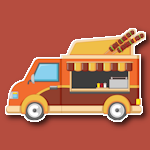
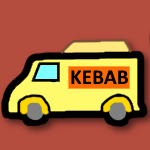
Replaced temporary art with cooler, hand-drawn art.

diff --git a/headless/src/test/java/com/spacecomplexity/longboilife/headless/SatisfactionTests.java b/headless/src/test/java/com/spacecomplexity/longboilife/headless/SatisfactionTests.java
@@ -156,14 +156,15 @@ public class SatisfactionTests extends AbstractHeadlessGdxTest{
          *                     = 0.8377
          */
         empty_world.build(BuildingType.HALLS, new Vector2Int(0, 0));
-        empty_world.build(BuildingType.NANDOS, new Vector2Int(3,1));
+        empty_world.build(BuildingType.CHICKENSHOP, new Vector2Int(3,1));
         empty_world.build(BuildingType.LECTURETHEATRE, new Vector2Int(6,1));
         empty_world.build(BuildingType.FOOTBALLFIELD, new Vector2Int(9,1));
         for (int i = 3; i < 11; i++) {
             empty_world.build(BuildingType.ROAD, new Vector2Int(i, 0));
         }
         satisfactionSum = GameUtils.updateSatisfactionScore(empty_world);
-        assertClose(0.838f, gameState.targetSatisfaction, 0.001f, "Building too far from accommodation -> No satisfaction");
+        assertClose(0.838f, gameState.targetSatisfaction, 0.001f,
+            "Building too far from accommodation -> No satisfaction");
     }
 
     @Test
@@ -202,7 +203,7 @@ public class SatisfactionTests extends AbstractHeadlessGdxTest{
         empty_world.build(BuildingType.ROAD, new Vector2Int(6,3));
         empty_world.build(BuildingType.ROAD, new Vector2Int(7,3));
 
-        empty_world.build(BuildingType.NANDOS, new Vector2Int(9, 0));
+        empty_world.build(BuildingType.CHICKENSHOP, new Vector2Int(9, 0));
         empty_world.build(BuildingType.KEBABVAN, new Vector2Int(3, 4));
         empty_world.build(BuildingType.GYM, new Vector2Int(0, 0));
         empty_world.build(BuildingType.BIKESTORE, new Vector2Int(8, 3));
@@ -233,7 +234,8 @@ public class SatisfactionTests extends AbstractHeadlessGdxTest{
 
         // Each satisfaction should be 0.322
         satisfactionSum = GameUtils.updateSatisfactionScore(empty_world);
-        HashSet<Float> accomSatisfactions = new HashSet<>(gameState.accomSatisfaction.values().stream().map(i -> i.totalSatisfaction).toList());
+        HashSet<Float> accomSatisfactions = new HashSet<>(
+            gameState.accomSatisfaction.values().stream().map(i -> i.totalSatisfaction).toList());
         assertEquals(2, gameState.accomSatisfaction.size(), "Verify 2 accommodations.");
         assertClose(0.644f, satisfactionSum, 0.001f, "Sum should be close to 0.644");
         assertTrue(accomSatisfactions.stream()

diff --git a/core/src/main/java/com/spacecomplexity/longboilife/game/building/BuildingType.java b/core/src/main/java/com/spacecomplexity/longboilife/game/building/BuildingType.java
@@ -17,7 +17,8 @@ public enum BuildingType {
     GREGGS("Greggs", new Texture("buildings/greggs.png"), new Vector2Int(2, 2), BuildingCategory.FOOD, 40000),
     SUPERMARKET("Supermarket", new Texture("buildings/supermarket.png"), new Vector2Int(4, 2), BuildingCategory.FOOD,
             60000),
-    NANDOS("Nandos", new Texture("buildings/nandos.png"), new Vector2Int(3, 2), BuildingCategory.FOOD, 100000),
+    CHICKENSHOP("Chicken Shop", new Texture("buildings/chicken_shop.png"), new Vector2Int(3, 2), BuildingCategory.FOOD,
+            100000),
 
     // Education Buildings
     CLASSROOMS("Classrooms", new Texture("buildings/classrooms.png"), new Vector2Int(3, 2),

diff --git a/headless/src/test/java/com/spacecomplexity/longboilife/headless/AssetTests.java b/headless/src/test/java/com/spacecomplexity/longboilife/headless/AssetTests.java
@@ -12,7 +12,7 @@ public class AssetTests extends AbstractHeadlessGdxTest {
     public void buildingAssetTest() {
         assertTrue(Gdx.files.internal("buildings/greggs.png").exists(),
                 "Greggs texture missing");
-        assertTrue(Gdx.files.internal("buildings/nandos.png").exists(),
+        assertTrue(Gdx.files.internal("buildings/chicken_shop.png").exists(),
                 "Nandos texture missing");
         assertTrue(Gdx.files.internal("buildings/library.png").exists(),
                 "Library texture missing");
